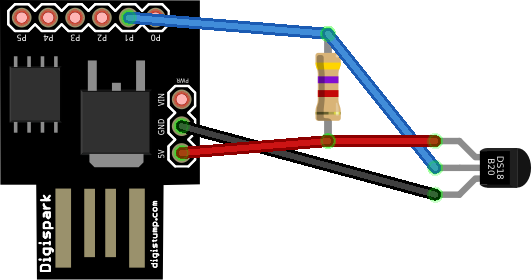
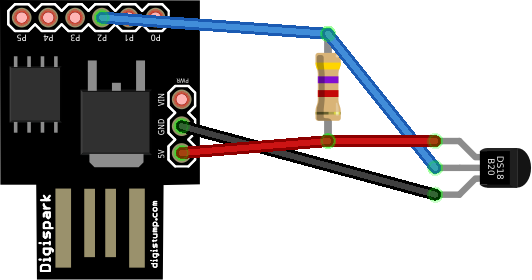
changing DigiSpark examples to pin 2, as on most models pin 1 has an onboard LED attached to it, making it unsuitable for use with the one wire bus

Changed region(s): [[0.1805, 0.0286, 0.5414, 0.1429]]

diff --git a/sensors/ds18b20/README.md b/sensors/ds18b20/README.md
@@ -47,7 +47,7 @@ The following is an example for connecting Dallas 18B20 to a NodeMCU on `D4`.
 
 ![Dallas 18B20 connected to a NodeMCU](https://raw.githubusercontent.com/elrido/MonSens/master/sensors/ds18b20/ds18b20%20nodemcu.png)
 
-Here below is an example for connecting Dallas 18B20 to a DigiSpark on pin `1`.
+Here below is an example for connecting Dallas 18B20 to a DigiSpark on pin `2`.
 
 ![Dallas 18B20 connected to a DigiSpark](https://raw.githubusercontent.com/elrido/MonSens/master/sensors/ds18b20/ds18b20%20digispark.png)
 
